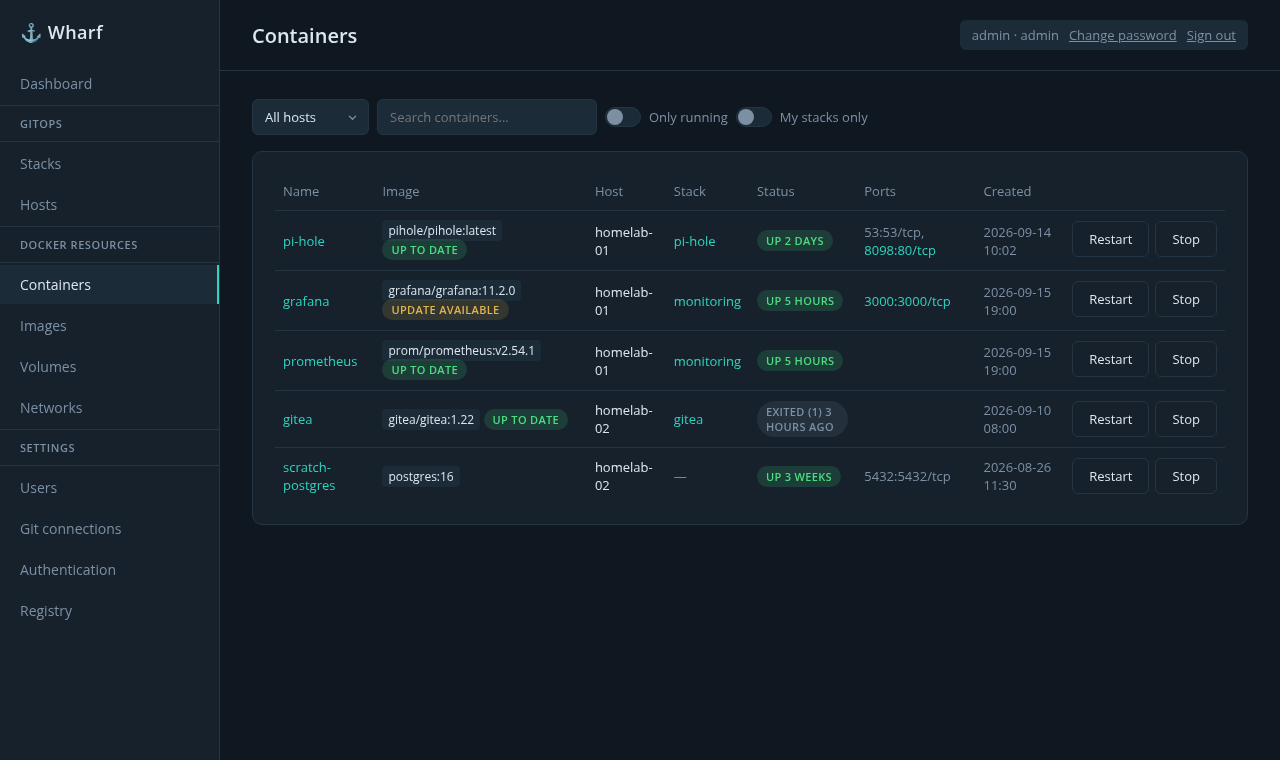
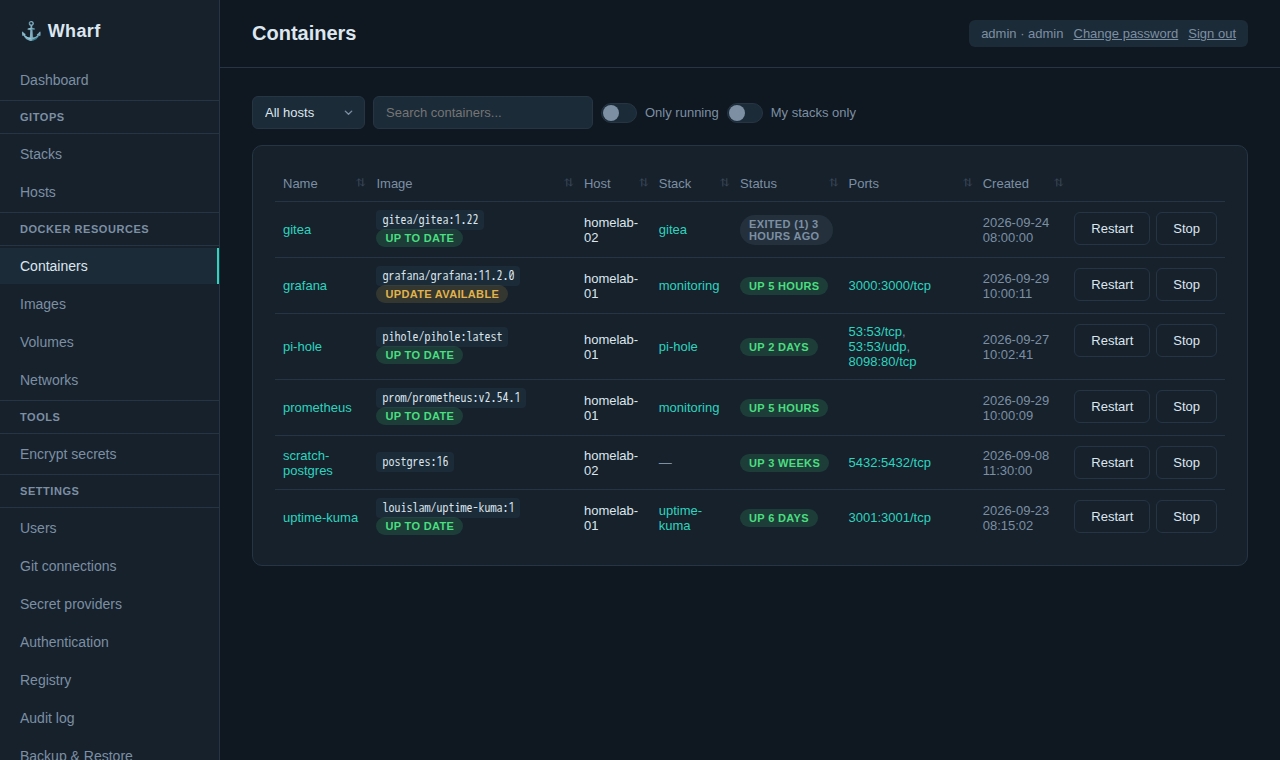
docs: refresh screenshots for the new menu, add secret providers page

diff --git a/docs/guide/secret-providers.md b/docs/guide/secret-providers.md
@@ -1,0 +1,136 @@
+# Secret providers
+
+Keep secrets out of Git altogether: store them in OpenBao or HashiCorp Vault, and let a Git stack's [`secrets.refs.yaml`](/guide/secrets#choosing-keys-with-secrets-refs-yaml) point at them. The file holds references, never values; the controller resolves them at deploy time with credentials it keeps itself.
+
+```yaml
+# secrets.refs.yaml — safe to commit
+DB_PASSWORD: ref+vault://secret/blog/db#/password
+API_KEY:     ref+sops://secrets.enc.yaml#/API_KEY
+```
+
+Providers available today:
+
+| Scheme | Reads from | Needs a connection |
+|---|---|---|
+| `ref+vault://` | OpenBao or HashiCorp Vault, KV v1 or v2, token or AppRole login | yes |
+| `ref+sops://` | The stack's own `secrets.enc.yaml` | no |
+
+## How a deploy resolves them
+
+```mermaid
+sequenceDiagram
+    participant A as Agent
+    participant C as Controller
+    participant V as OpenBao / Vault
+
+    A->>A: git clone, finds secrets.refs.yaml
+    A->>C: POST /agent/resolve (deployment_id, refs file)
+    C->>C: check every path against the stack's allowed paths
+    C->>V: log in (AppRole) or use the token
+    V-->>C: secret fields
+    C-->>A: only the variables the file asks for
+    A->>A: write .env, docker compose up, delete .env
+```
+
+*The agent never talks to the secret manager and never holds its credentials; it only receives the final variables, for the length of one `docker compose up`.*
+
+## 1. Prepare OpenBao / Vault
+
+Wharf needs a read-only identity per stack (or one for all of them). With AppRole, on the OpenBao side:
+
+```bash
+bao policy write wharf-blog - <<'EOF'
+path "secret/data/blog/*" { capabilities = ["read"] }
+EOF
+
+bao auth enable approle
+bao write auth/approle/role/wharf-blog \
+    token_policies=wharf-blog \
+    token_ttl=1h \
+    secret_id_ttl=0 \
+    secret_id_num_uses=0 \
+    secret_id_bound_cidrs=192.168.1.10/32   # the controller's address
+
+bao read auth/approle/role/wharf-blog/role-id
+bao write -f auth/approle/role/wharf-blog/secret-id
+```
+
+A few choices matter:
+
+- **`secret_id_num_uses=0`.** Wharf logs in again whenever its cached token expires, so a secret ID limited to N uses stops working after N logins.
+- **A long (or no) `secret_id_ttl`, rotated on a calendar.** An expired secret ID is the most common cause of a sudden failure, see [below](#errors-you-may-see).
+- **A CIDR binding** limits where the secret ID is accepted.
+- In a KV v2 policy the path has `data/` in it (`secret/data/blog/*`); in a Wharf reference it does not (`secret/blog/db`), Wharf adds it.
+
+A plain token works too, but a token that expires (or isn't periodic) becomes the same kind of sudden failure.
+
+## 2. Add a connection
+
+**Secret providers** (admin only) lists the shared connections. A connection is an address plus, optionally, default credentials.
+
+![Secret providers page](/screenshots/secret-providers.png)
+
+| Field | Meaning |
+|---|---|
+| Address | The server's URL, e.g. `https://openbao.example.lan:8200` |
+| KV engine version | `2` (default) or `1` |
+| Namespace | Optional |
+| AppRole auth mount | `approle` unless you enabled it elsewhere |
+| CA certificate | Only for a server signed by a private CA |
+| Token, or role ID + secret ID | Default credentials, optional. Write-only: never shown again once saved |
+
+**Test** logs in with the default credentials and tells you whether it worked.
+
+## 3. Attach it to a stack
+
+Open a Git stack, and under **Secret references** choose **Add OpenBao / Vault**.
+
+![Secret references panel on a stack page](/screenshots/stack-secret-references.png)
+
+There are three ways to connect:
+
+| Mode | Address | Credentials | Use it when |
+|---|---|---|---|
+| A shared connection, as is | the connection's | the connection's defaults | every stack may use the same identity |
+| A shared connection, with its own credentials | the connection's | this stack's | one server, a role per stack |
+| A connection of its own | this stack's | this stack's | a stack talks to a different server |
+
+Changing a shared connection's address changes it for every stack that inherits it, and their credentials are then sent to the new address; the connection page warns you.
+
+![Attaching a connection to a stack](/screenshots/secret-binding.png)
+
+**Allowed paths** are required, one per line. A path covers itself and everything below it, compared by whole segments: `secret/blog` allows `secret/blog/db`, not `secret/blogger`. A reference outside them fails the deploy without ever reaching the server. This is what separates two stacks that share the same credentials, so keep it as tight as the stack allows (`*` allows every path).
+
+## 4. Reference the secrets
+
+```yaml
+DB_PASSWORD: ref+vault://secret/blog/db#/password
+```
+
+`secret` is the KV mount, `blog/db` the secret's path and `password` the field. The other rules (all values are references, no query string, all or nothing) are on the [Secrets](/guide/secrets#choosing-keys-with-secrets-refs-yaml) page. A reference never carries an address or credentials, so a repository can only ask for a path, never redirect Wharf to another server.
+
+## Errors you may see
+
+They appear in the deployment output and name the key that failed; every failing key is listed at once, and nothing is deployed if any fails.
+
+| Message | Meaning |
+|---|---|
+| `login refused: invalid role or secret ID` | The secret ID is wrong, expired or destroyed. Replace it in the connection or in the stack's credentials, then **Test** |
+| `permission denied by the OpenBao policy for …` | The role's policy doesn't cover that path |
+| `no secret at …` / `field "x" not found at …` | The secret or its field doesn't exist |
+| `OpenBao is sealed or not ready (503)` | Unseal it; nothing can be resolved until then |
+| `cannot reach OpenBao at …` / `timed out talking to OpenBao …` | Network, address or TLS (a private CA goes in the connection) |
+| `path "…" is outside the prefixes allowed for this stack` | Add the path to the stack's allowed paths, or fix the reference |
+| `this stack has no vault connection` | The file uses `ref+vault://` but nothing is attached |
+
+Polling only deploys when the branch moves, so it does not retry a failed deploy on the same commit: once the cause is fixed, use **Deploy now**.
+
+A failing login shows up later than the change that caused it. Wharf keeps the token it got for as long as it lives (minus 30 seconds), so a secret ID destroyed at noon can keep working until the next login, then fail on a deploy at midnight. **Test** a connection right after rotating a credential.
+
+## Good to know
+
+- **Credentials never leave the controller.** They are stored in its isolated key store next to the other secrets, are part of an encrypted [backup](/guide/backup-restore), and are never shown again, in the UI or the audit log.
+- **Redirects are not followed**, so a token can't be forwarded to another host by the server's answer.
+- **Deleting** a connection that a stack still uses is refused; the message lists the stacks.
+- **The audit log** records each resolution (`secrets.resolve`, or `secrets.resolve_failed`) with the variable names and which connection was used, never a value.
+- **Agents must be up to date.** A stack with a secret connection is refused, with a clear message, on an agent older than 0.5.0, instead of deploying with empty variables. See [Hosts](/guide/hosts#agent-version).

diff --git a/docs/guide/secrets.md b/docs/guide/secrets.md
@@ -37,7 +37,7 @@ sops -e --age <public key> secrets.yaml > secrets.enc.yaml
 
 :::
 
-No `age`/`sops` installed locally? **Settings → Encrypt secrets** (admin only) does the same thing in the browser — paste or upload the plaintext, pick the stack from a dropdown (or paste a public key directly), choose plain age or SOPS, and copy or download the result. Nothing typed there is ever stored on the controller; it's the exact same one-shot operation as the CLI commands above, just without leaving the browser. SOPS output comes from the real `sops` binary, not a reimplementation, so it's identical to what the CLI would produce. A link right on this panel (**Encrypt it here instead**) jumps there with this stack's public key already filled in.
+No `age`/`sops` installed locally? **Tools → Encrypt secrets** (admin only) does the same thing in the browser — paste or upload the plaintext, pick the stack from a dropdown (or paste a public key directly), choose plain age or SOPS, and copy or download the result. Nothing typed there is ever stored on the controller; it's the exact same one-shot operation as the CLI commands above, just without leaving the browser. SOPS output comes from the real `sops` binary, not a reimplementation, so it's identical to what the CLI would produce. A link right on this panel (**Encrypt it here instead**) jumps there with this stack's public key already filled in.
 
 ![Encrypt secrets form, with a SOPS result ready to copy or download](/screenshots/secrets-tool.png)
 
@@ -94,9 +94,34 @@ secrets.enc.yaml -text
 ```
 :::
 
+## Choosing keys with `secrets.refs.yaml`
+
+Optional, Git stacks only. By default every key of `secrets.enc.yaml` becomes a variable of the stack. Put a `secrets.refs.yaml` next to the compose file instead to list exactly which variables the stack gets, and where each value comes from:
+
+```yaml
+# secrets.refs.yaml — contains no secret, safe to commit
+DB_PASSWORD: ref+sops://secrets.enc.yaml#/DB_PW
+API_KEY:     ref+sops://secrets.enc.yaml#/API_KEY
+```
+
+A reference reads `ref+<scheme>://<path>#/<field>`. The left side is the variable your compose file sees, so a key can be renamed on the way (`DB_PW` above becomes `DB_PASSWORD`). Two schemes exist: `sops` reads the stack's own `secrets.enc.yaml` (either format, and only that file), and `vault` reads from OpenBao or HashiCorp Vault through a connection you set up once, see [Secret providers](/guide/secret-providers). Any other scheme fails the deploy with a clear message.
+
+The rules are strict on purpose:
+
+- **The file is the only source.** With a `secrets.refs.yaml`, keys of `secrets.enc.yaml` that no reference picks up are not deployed; the deployment output names them (never their values) so a forgotten one is easy to spot.
+- **Every value must be a reference.** A literal such as `PASSWORD: hunter2` is refused, and so is a query string (`?address=…`): a reference says what to read, never where to connect.
+- **All or nothing.** If any reference can't be resolved, nothing is deployed and the error lists every failing key.
+- **No file, no change.** A stack without `secrets.refs.yaml` behaves exactly as before.
+
+The agent sends the two files to the controller, which resolves the references and returns only the variables you asked for. The rest of the flow is the one above: `.env` written, `docker compose up`, `.env` deleted.
+
+::: warning Update your agents first
+An agent from before this feature ignores `secrets.refs.yaml` and would start the stack with empty variables. Update the agent on a host (see [Hosts](/guide/hosts)) before adding the file to a stack deployed there. A stack with a [secret provider](/guide/secret-providers) attached is refused on such an agent, instead of deploying with empty variables.
+:::
+
 ## Using a secret in your compose file
 
-Whether a secret came from the form (local stack) or `secrets.enc.yaml` (Git stack), referencing it works the same way. Use `${KEY}` for a plain environment variable, or give the image a file instead, for anything that expects one:
+Whether a secret came from the form (local stack) or `secrets.enc.yaml` / `secrets.refs.yaml` (Git stack), referencing it works the same way. Use `${KEY}` for a plain environment variable, or give the image a file instead, for anything that expects one:
 
 ```yaml
 secrets:
